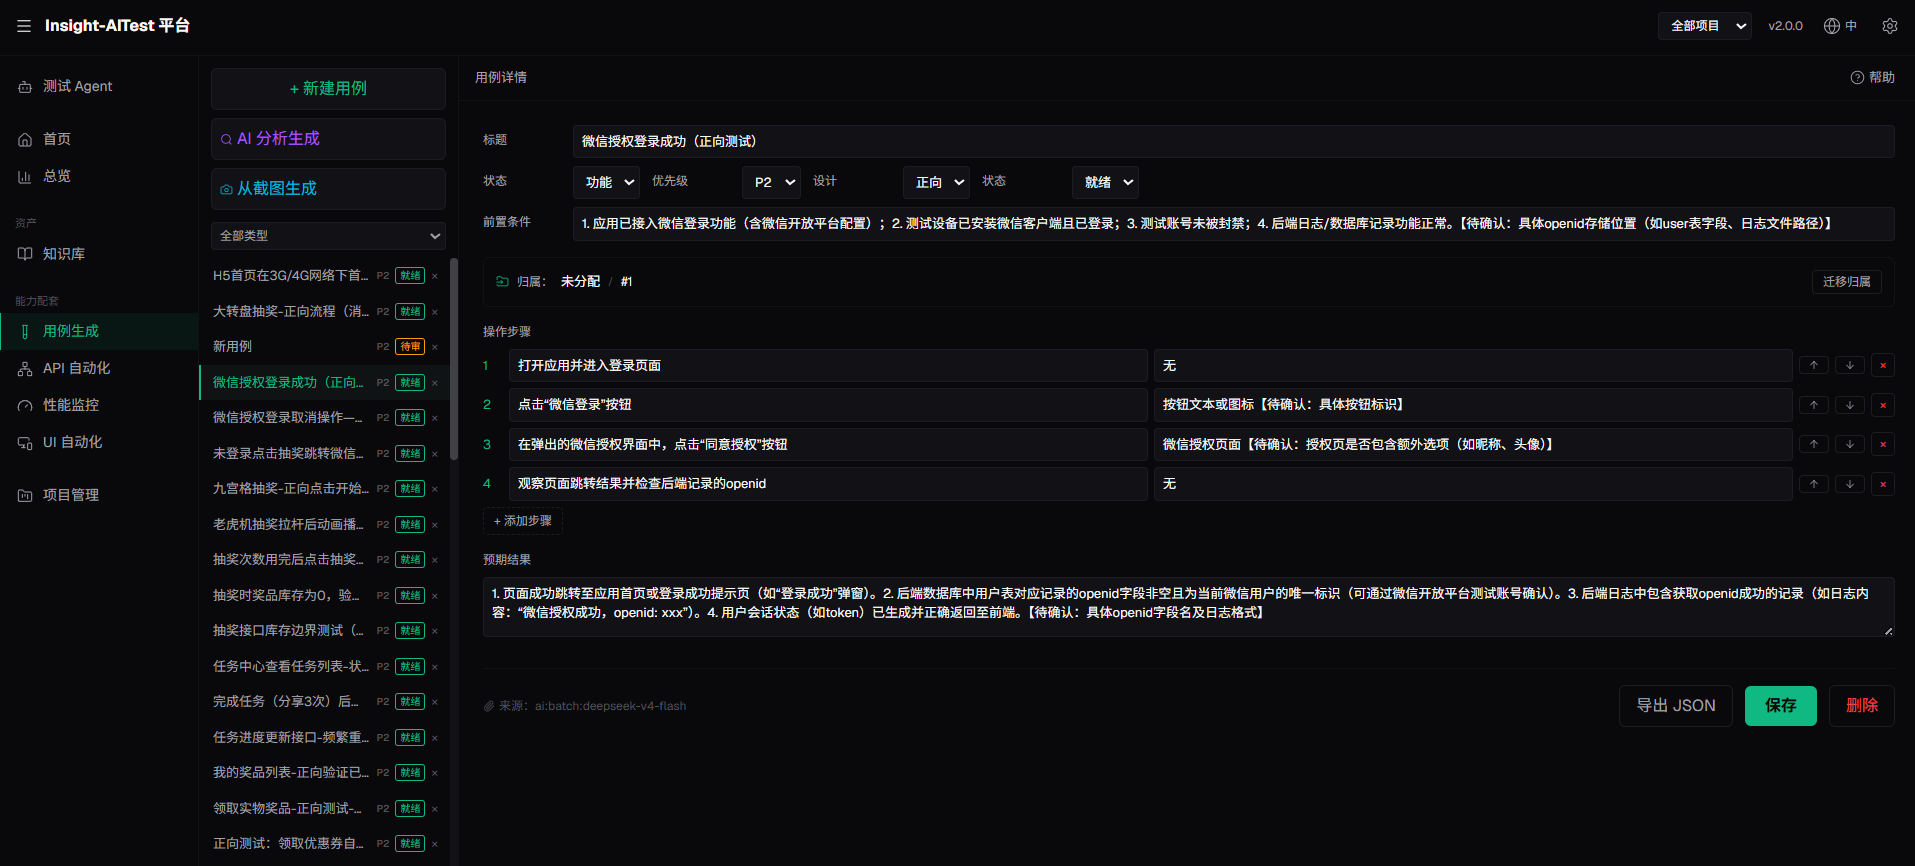
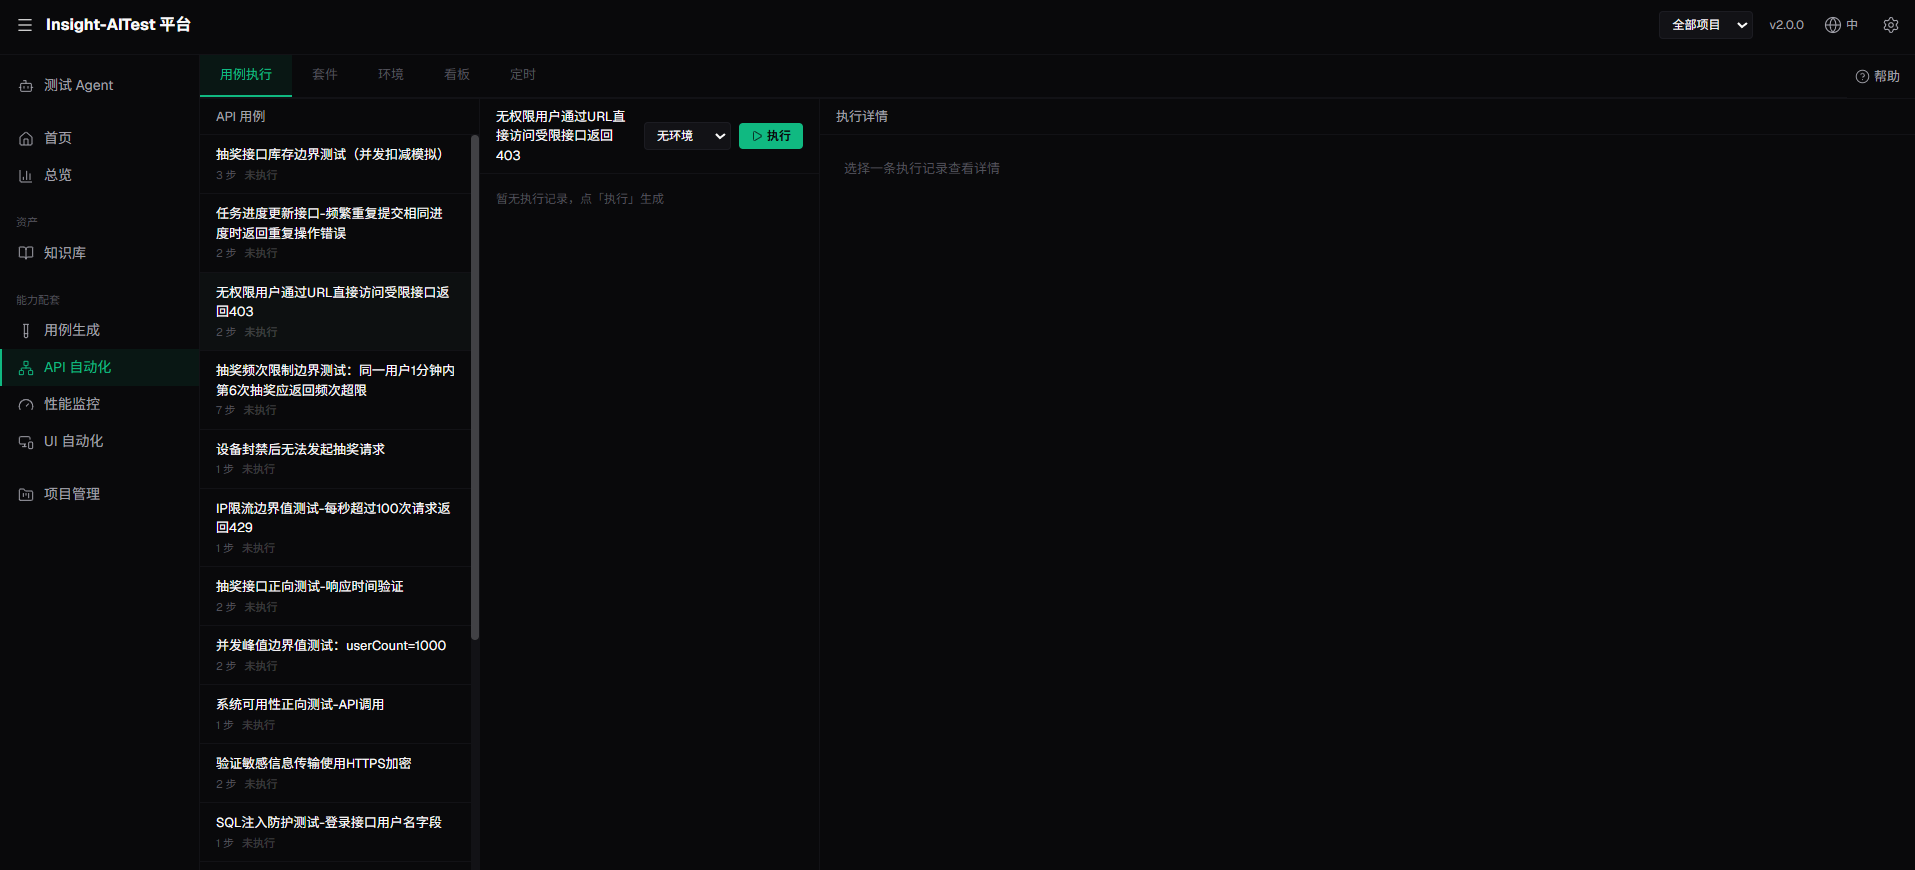
fix: 更正 API自动化截图 + 移除文档中的个人邮箱
- 替换为正确的 API 自动化截图（原截图误用）
- 移除 README/CONTRIBUTING/SECURITY 中的 QQ 邮箱，
  联系方式改为 GitHub Issues / Discussions
- 安全漏洞报告改为 GitHub 私有安全公告

diff --git a/SECURITY.md b/SECURITY.md
@@ -8,10 +8,7 @@
 
 如果你发现了安全漏洞，**请不要创建公开的 Issue**。
 
-请通过以下方式私下报告：
-
-- 发送邮件到: 594902674@qq.com
-- 或通过 GitHub 的 [私有漏洞报告](https://github.com/Aceyuan361/Insight-AITest/security/advisories) 功能
+请通过 GitHub 的 [私有安全公告（Security Advisory）](https://github.com/Aceyuan361/Insight-AITest/security/advisories/new) 私下报告。
 
 ## 报告内容
 

diff --git a/README.zh-CN.md b/README.zh-CN.md
@@ -337,7 +337,7 @@ iOS 系统 API 限制，第三方应用无法访问 GPU 使用率数据。
 
 - **作者**: Aceyuan361
 - **问题反馈**: [GitHub Issues](https://github.com/Aceyuan361/Insight-AITest/issues)
-- **邮箱**: [594902674@qq.com](mailto:594902674@qq.com)
+- **交流讨论**: [GitHub Discussions](https://github.com/Aceyuan361/Insight-AITest/discussions)
 
 ---
 

diff --git a/README.md b/README.md
@@ -328,7 +328,7 @@ This project would not be possible without the inspiration and support from thes
 
 - **Author**: Aceyuan361
 - **Issues**: [GitHub Issues](https://github.com/Aceyuan361/Insight-AITest/issues)
-- **Email**: [594902674@qq.com](mailto:594902674@qq.com)
+- **Discussions**: [GitHub Discussions](https://github.com/Aceyuan361/Insight-AITest/discussions)
 
 ---
 
